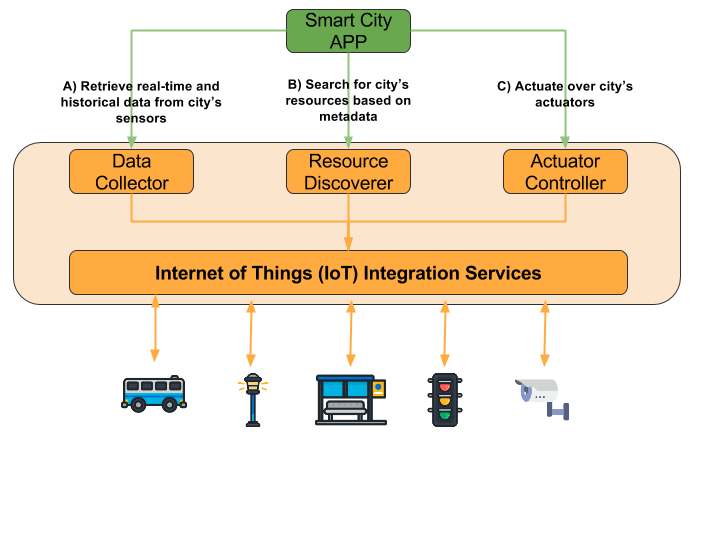
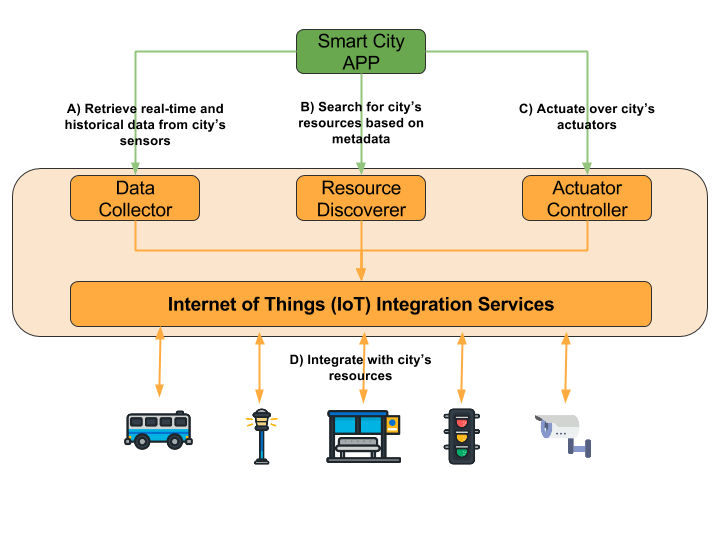
Final notes to architecture overview

diff --git a/architecture/Architecture.md b/architecture/Architecture.md
@@ -43,6 +43,17 @@ services provided by the platform:
 > Icons from [Flaticon](http://www.flaticon.com/packs/urban-3) and by 
 [Madebyoliver](http://www.flaticon.com/authors/madebyoliver).
 
+Data Collector, Resource Discoverer and Actuator Controller services can be
+used by application developers to access city's resources, as denoted by
+**A**, **B** and **C** labeled arrows. The integration of new physical 
+resources may use the IoT Integration Services APIs. However, the communication
+represented by the **D** arrow must only be used for integration of new 
+resources to the platform, not for end-user application development.
+
+Next section describes in more detail the platform's **microservices
+architecture**, designed to provide the required features to support Smart
+Cities.
+
 ## Communication between services
 
 In order to properly provide an unified technological infrastructure to 
@@ -99,12 +110,17 @@ uses the *Resource Cataloguer* REST API to get the available resources and
 their meta-data. It also uses the *Data Collector* REST API to get the last
 data from specific resources with sensor capabilities.
 
-
 ## Deployment view
+
+> Comming soon
 
 ## Design constraints and guidelines
 
+> Comming soon
+
 ## Security
+
+> Comming soon
 
 ## Roadmap
 
